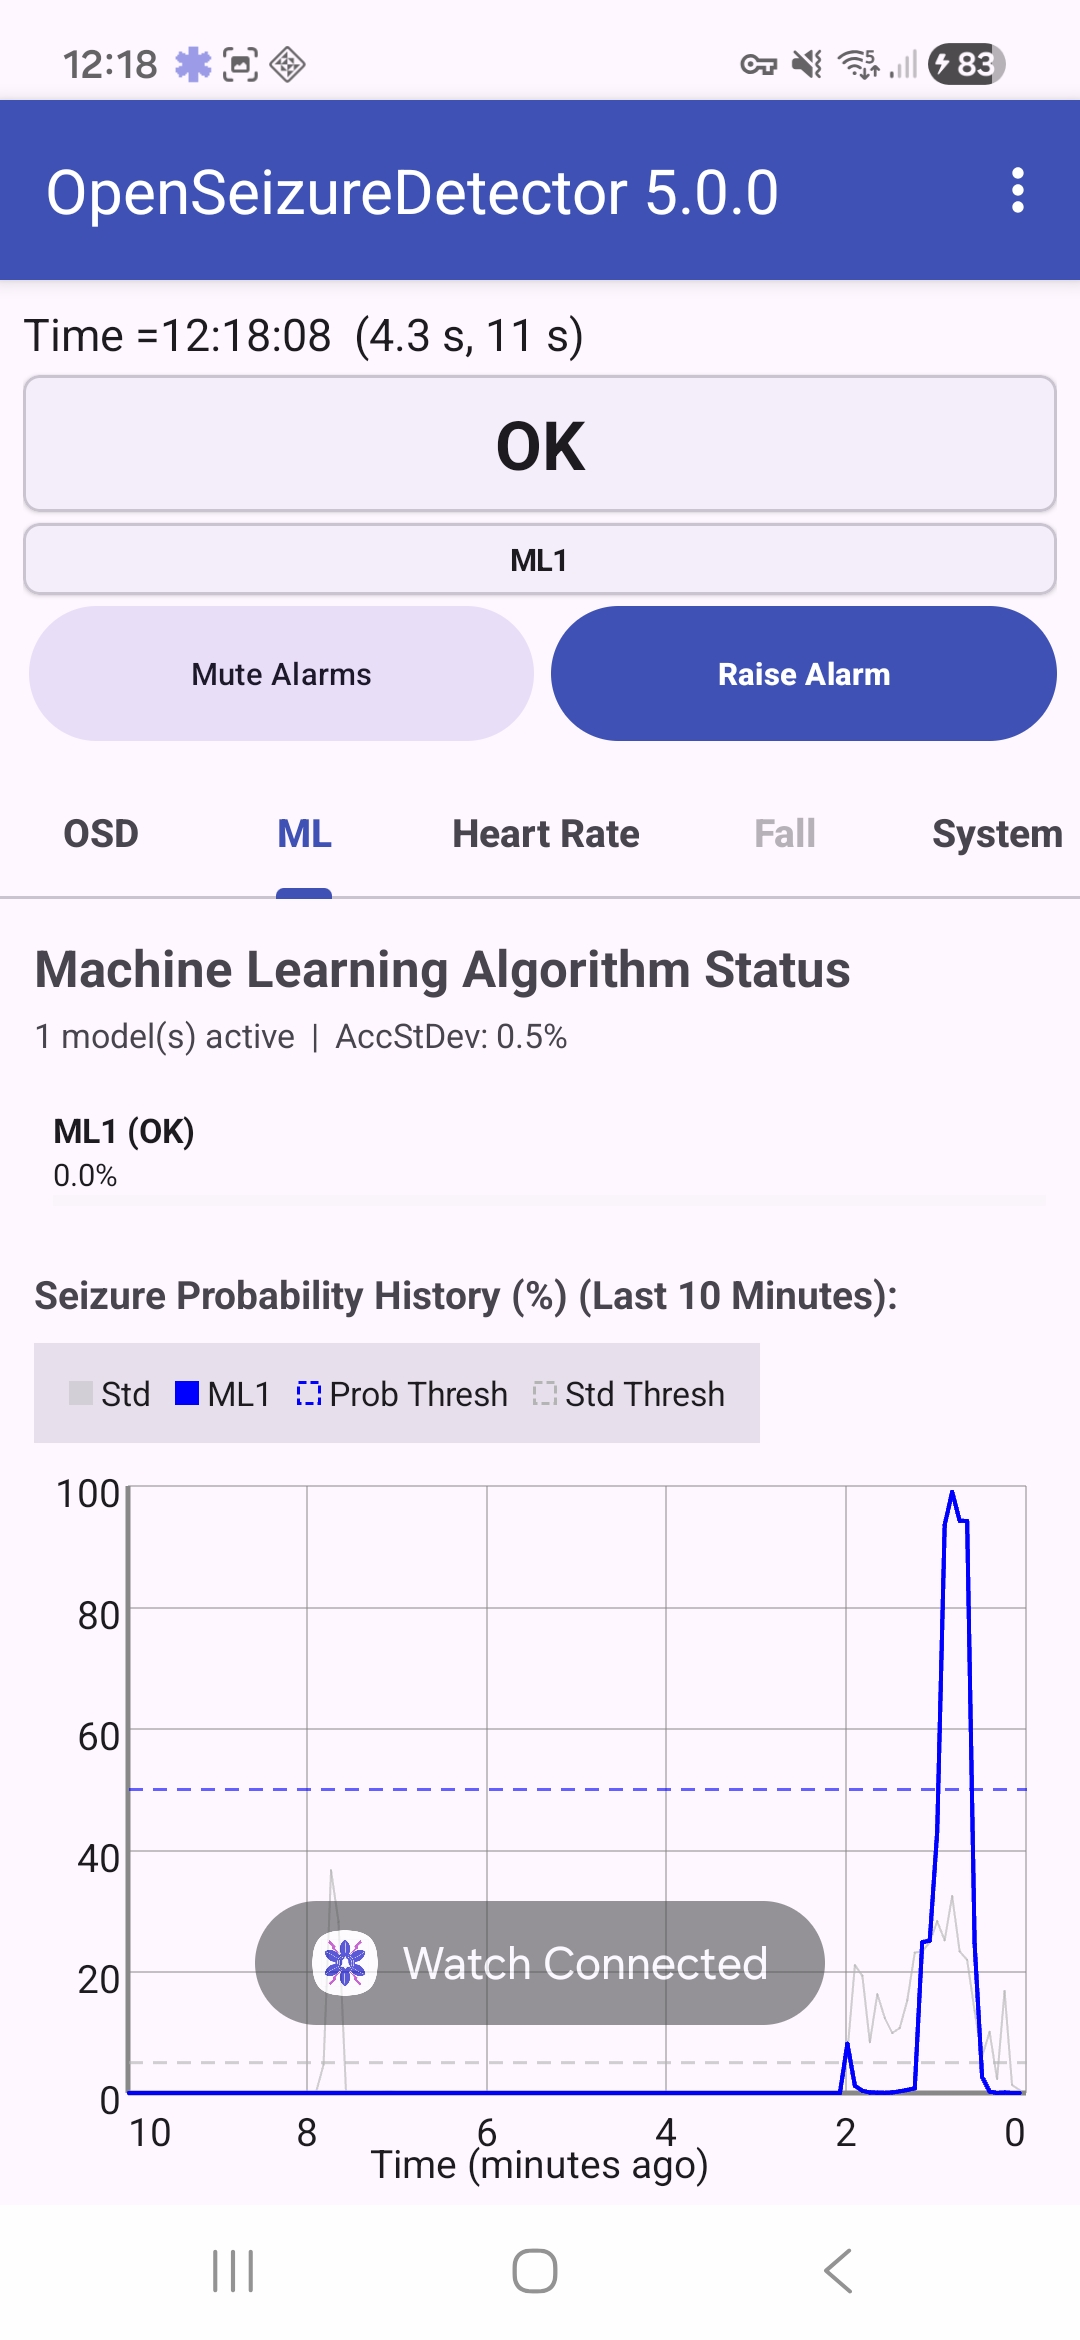
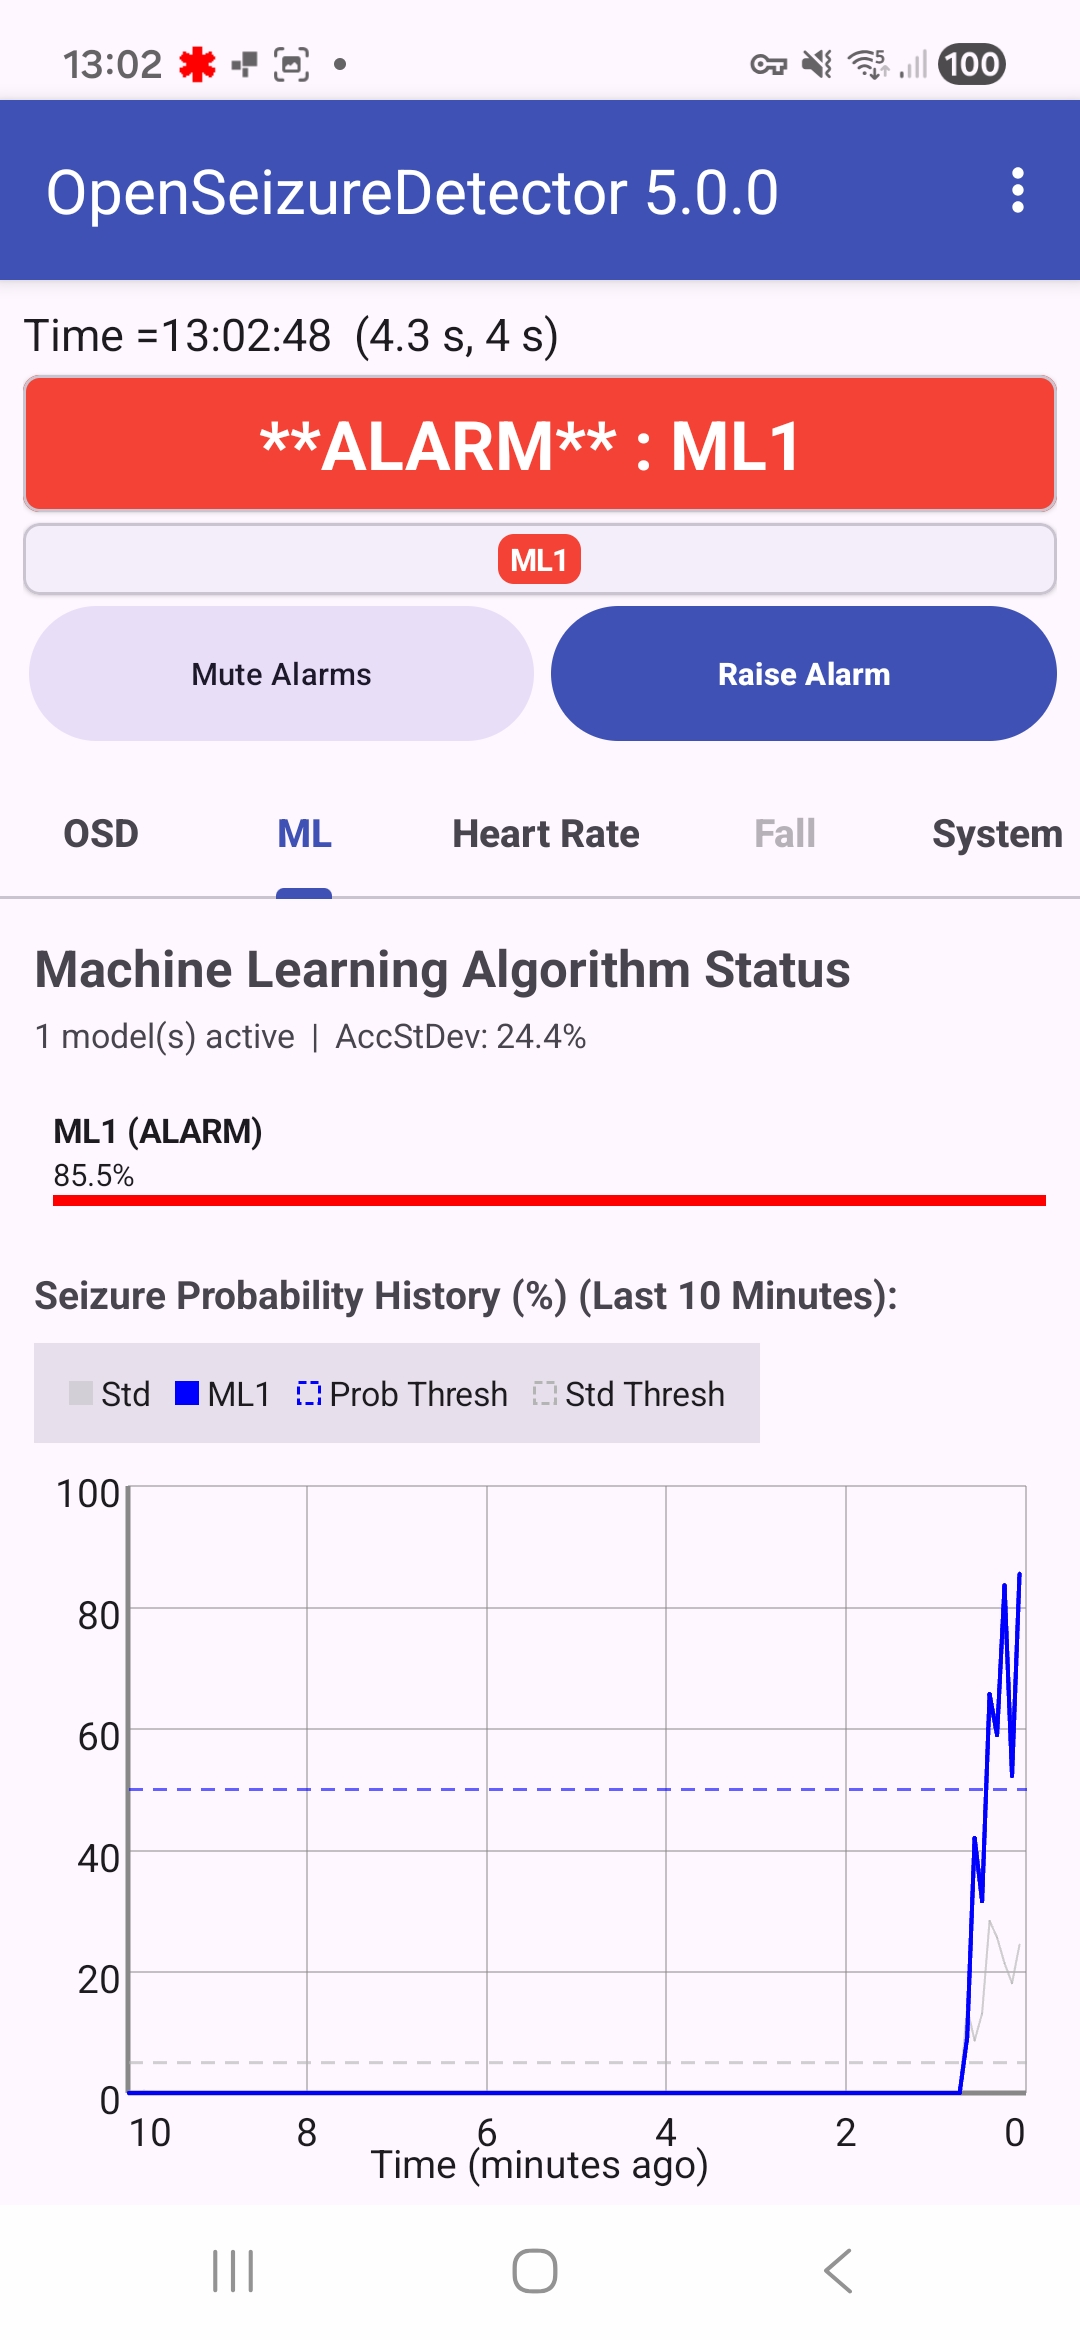
Fixed system image

diff --git a/README.md b/README.md
@@ -15,7 +15,7 @@ Android App, which is published on
 
 <img width=300 src="doc/images/Basic_Mode_OK.jpg"/> <img width=300 src="doc/images/Basic_Mode_ALARM.jpg"/>
 
-<img width=300 src="doc/images/Advanced_Mode_ML_History.jpg"/> <img width=300 src="doc/images/Advanced_Mode_System.jpg.jpg"/>
+<img width=300 src="doc/images/Advanced_Mode_ML_History.jpg"/> <img width=300 src="doc/images/Advanced_Mode_System.jpg"/>
 
 For a detailed architectural overview (activities, service, data flow, resources) see [APP_STRUCTURE.md](doc/APP_STRUCTURE.md).
 